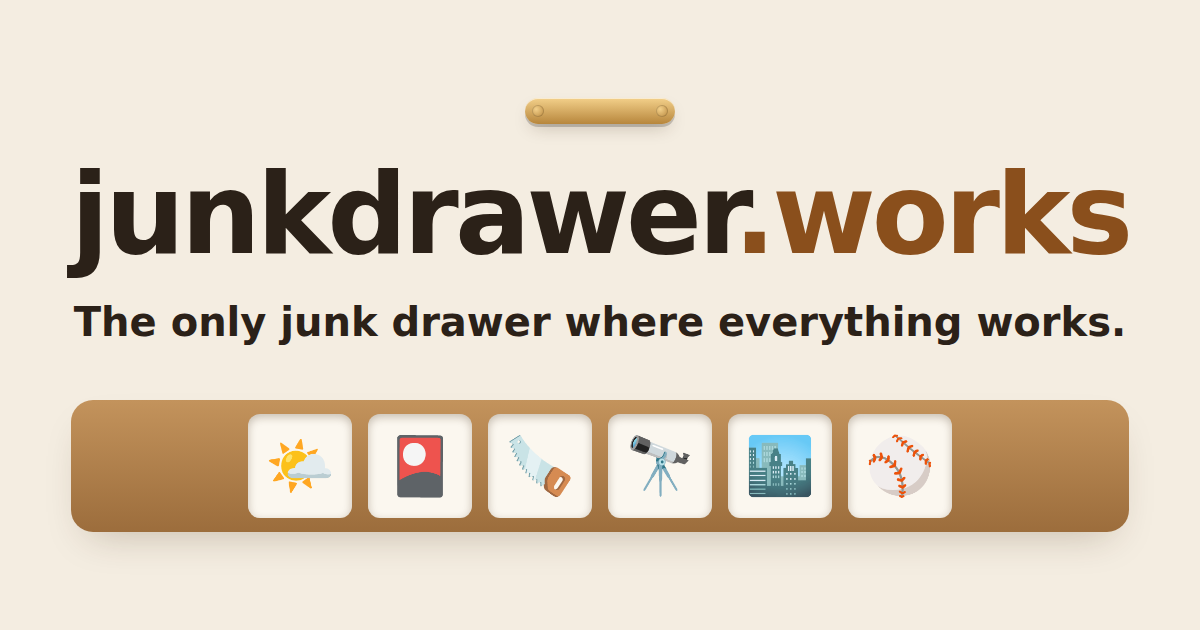
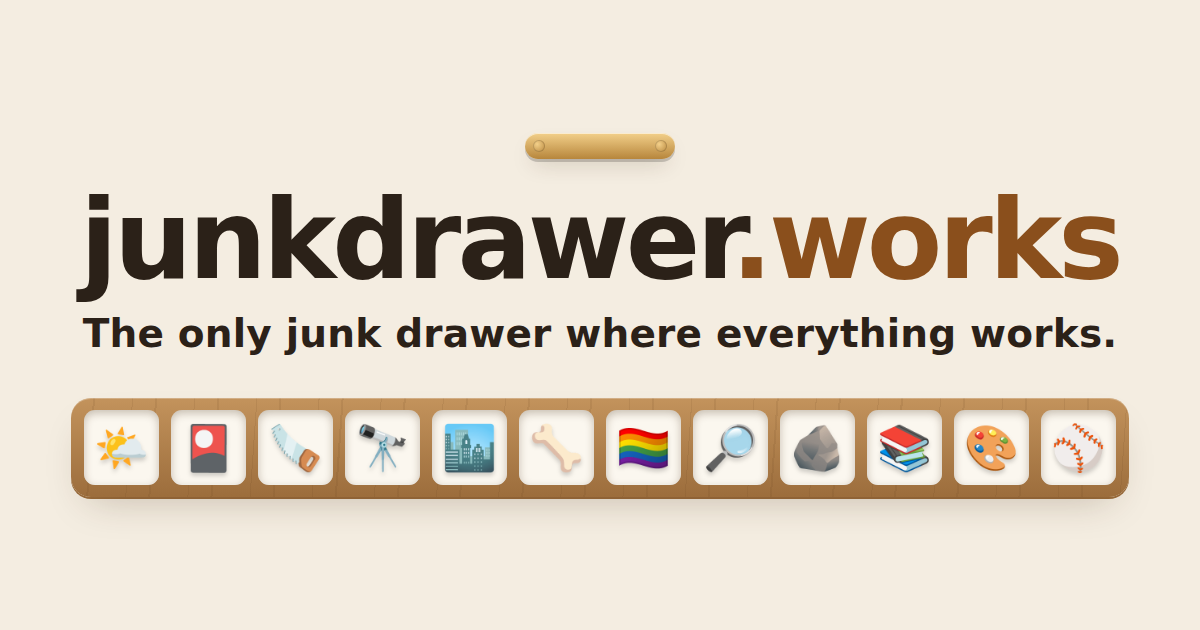
Redraw the share image with every project in the tray
og.png showed the original six compartments. tools/og.mjs now draws it
from the tiles in index.html, so the tray has one compartment per
project, in order (twelve today), and redrawing it after adding a
project is one command.

Claude-Session: https://claude.ai/code/session_01EiZrjJZoqHs5NpwBKvd61T

Changed region(s): [[0.0308, 0.2714, 0.9558, 0.573], [0.0617, 0.6333, 0.9558, 0.8746], [0.4317, 0.1508, 0.5858, 0.2714]]

diff --git a/README.md b/README.md
@@ -7,4 +7,5 @@ This repo is the front of the drawer: the home page at [junkdrawer.works](https:
 - `index.html`: the drawer, one compartment per project. To add a project, copy a compartment (`<a class="slot">…</a>`) and point it at `/<repo>/`.
 - `404.html`: shown for any address on the domain that doesn't exist.
 - `CNAME`: tells GitHub Pages this site's domain. Leave it alone.
-- `og.png`: the picture shown when a link is shared in a message.
+- `og.png`: the picture shown when a link is shared in a message. After adding or reordering projects, redraw it with `node tools/og.mjs` (needs Playwright): the tray gets one compartment per tile, in order.
+- `tools/og.mjs`: draws `og.png`.
